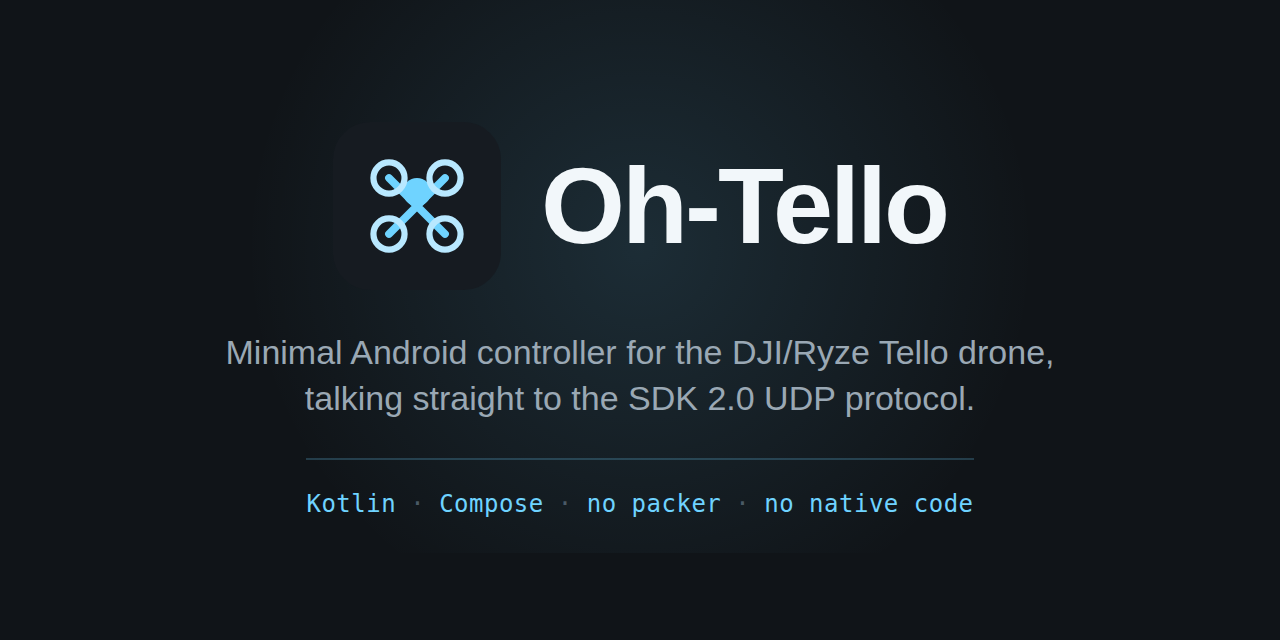
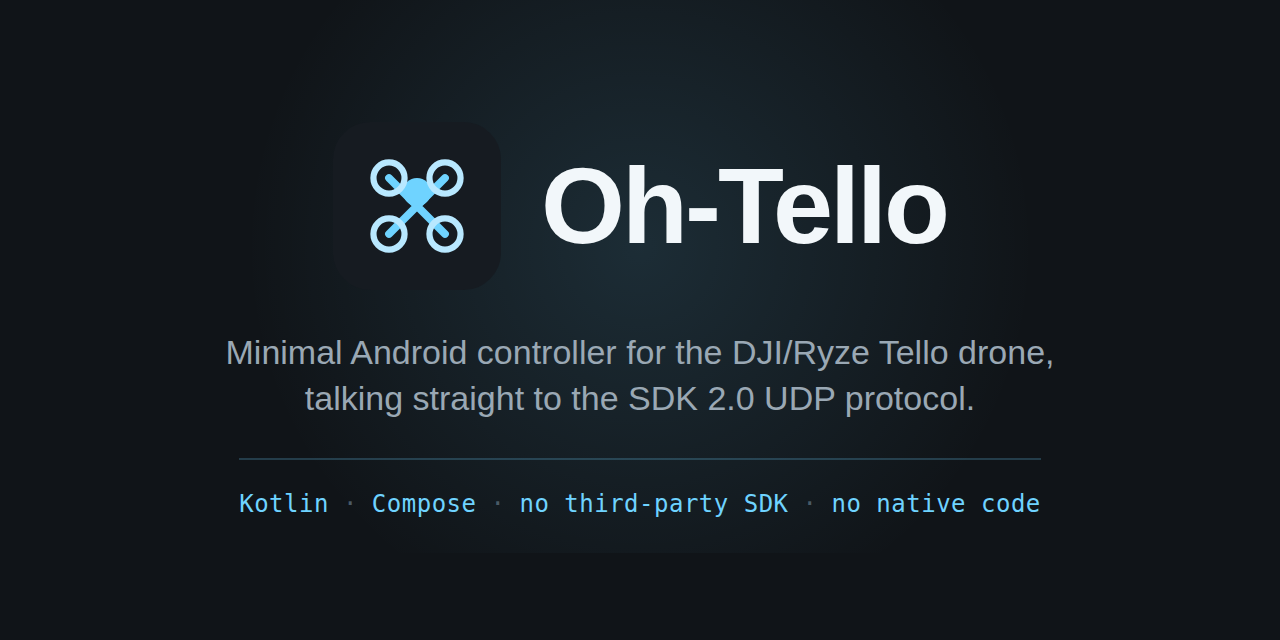
Reword the social card's meta line
"no packer" was the project's whole thesis compressed into two words, which
only lands for someone who has already read why the official Ryze app fails.
On an unfurl seen cold it reads as jargon. Use the README's other phrasing,
"no third-party SDK", which stands on its own without the backstory.

Claude-Session: https://claude.ai/code/session_01MqGz9462c5T2cXNk37eDVX

Changed region(s): [[0.1875, 0.75, 0.8125, 0.8125]]

diff --git a/docs/img/social-preview.html b/docs/img/social-preview.html
@@ -73,7 +73,7 @@
       <h1>Oh-Tello</h1>
     </div>
     <div class="tagline">Minimal Android controller for the DJI/Ryze Tello drone,<br>talking straight to the SDK 2.0 UDP protocol.</div>
-    <div class="meta">Kotlin<span>&middot;</span>Compose<span>&middot;</span>no packer<span>&middot;</span>no native code</div>
+    <div class="meta">Kotlin<span>&middot;</span>Compose<span>&middot;</span>no third-party SDK<span>&middot;</span>no native code</div>
   </div>
 </body>
 </html>
